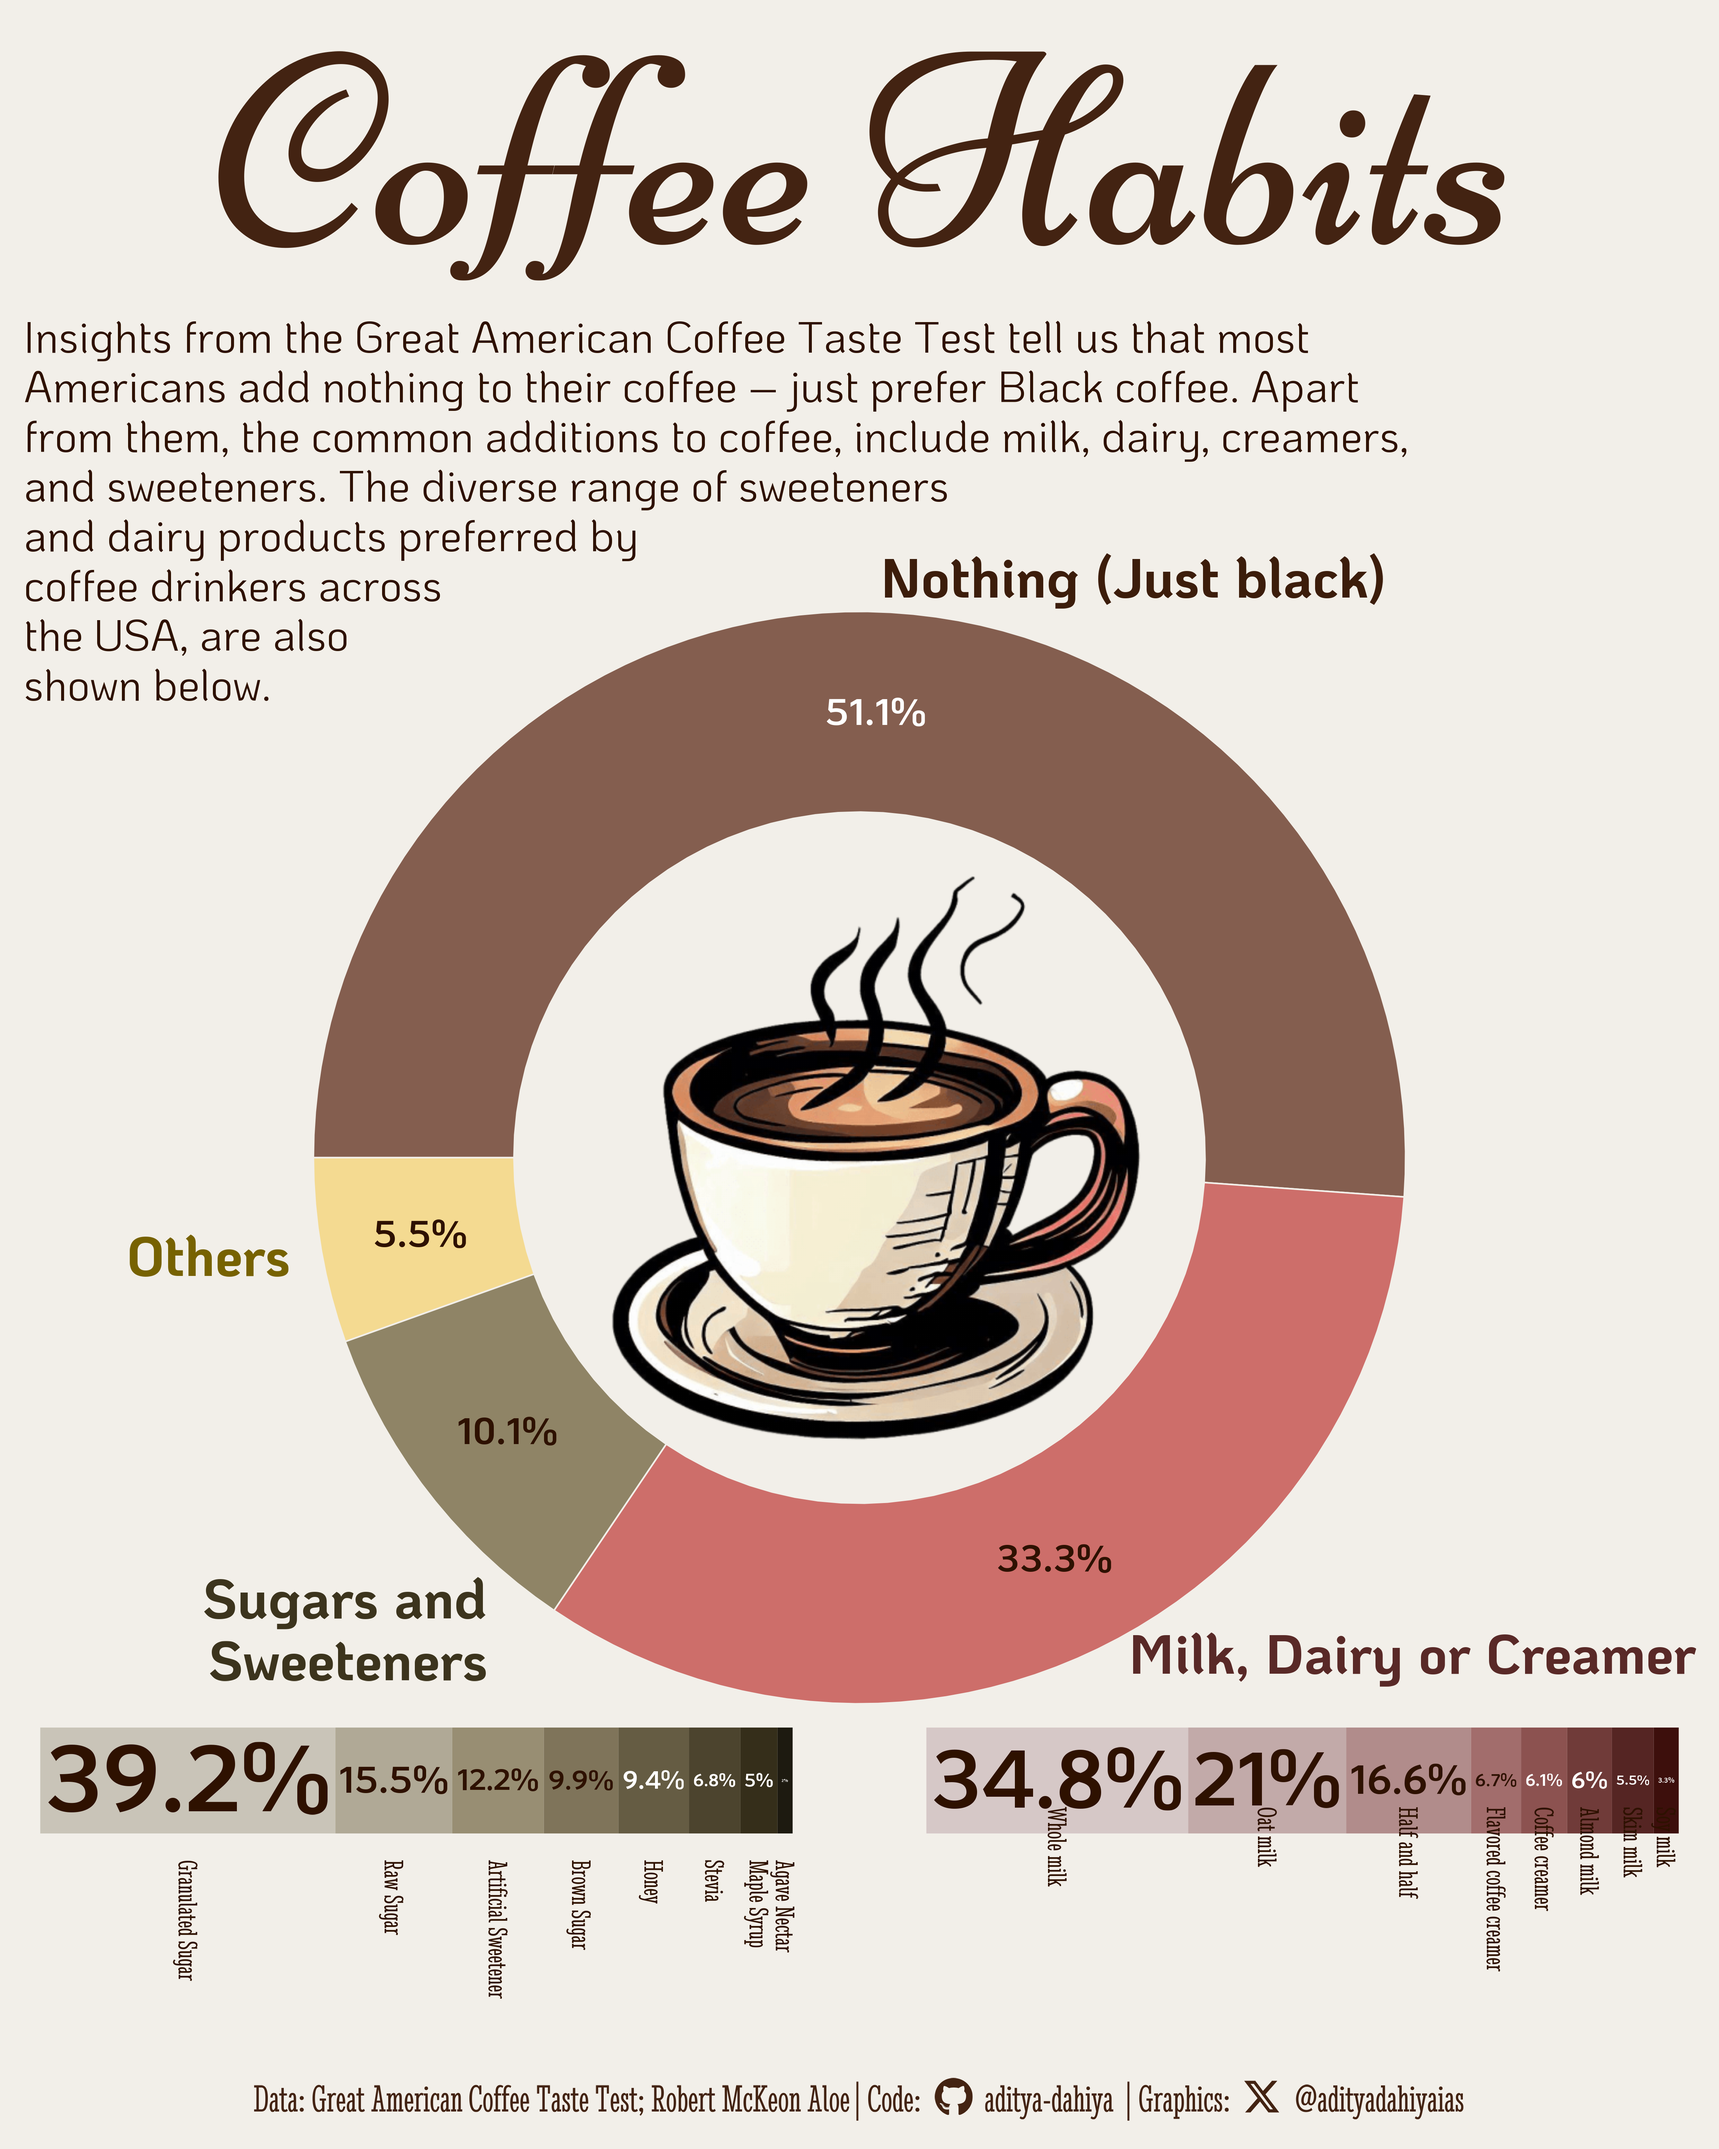
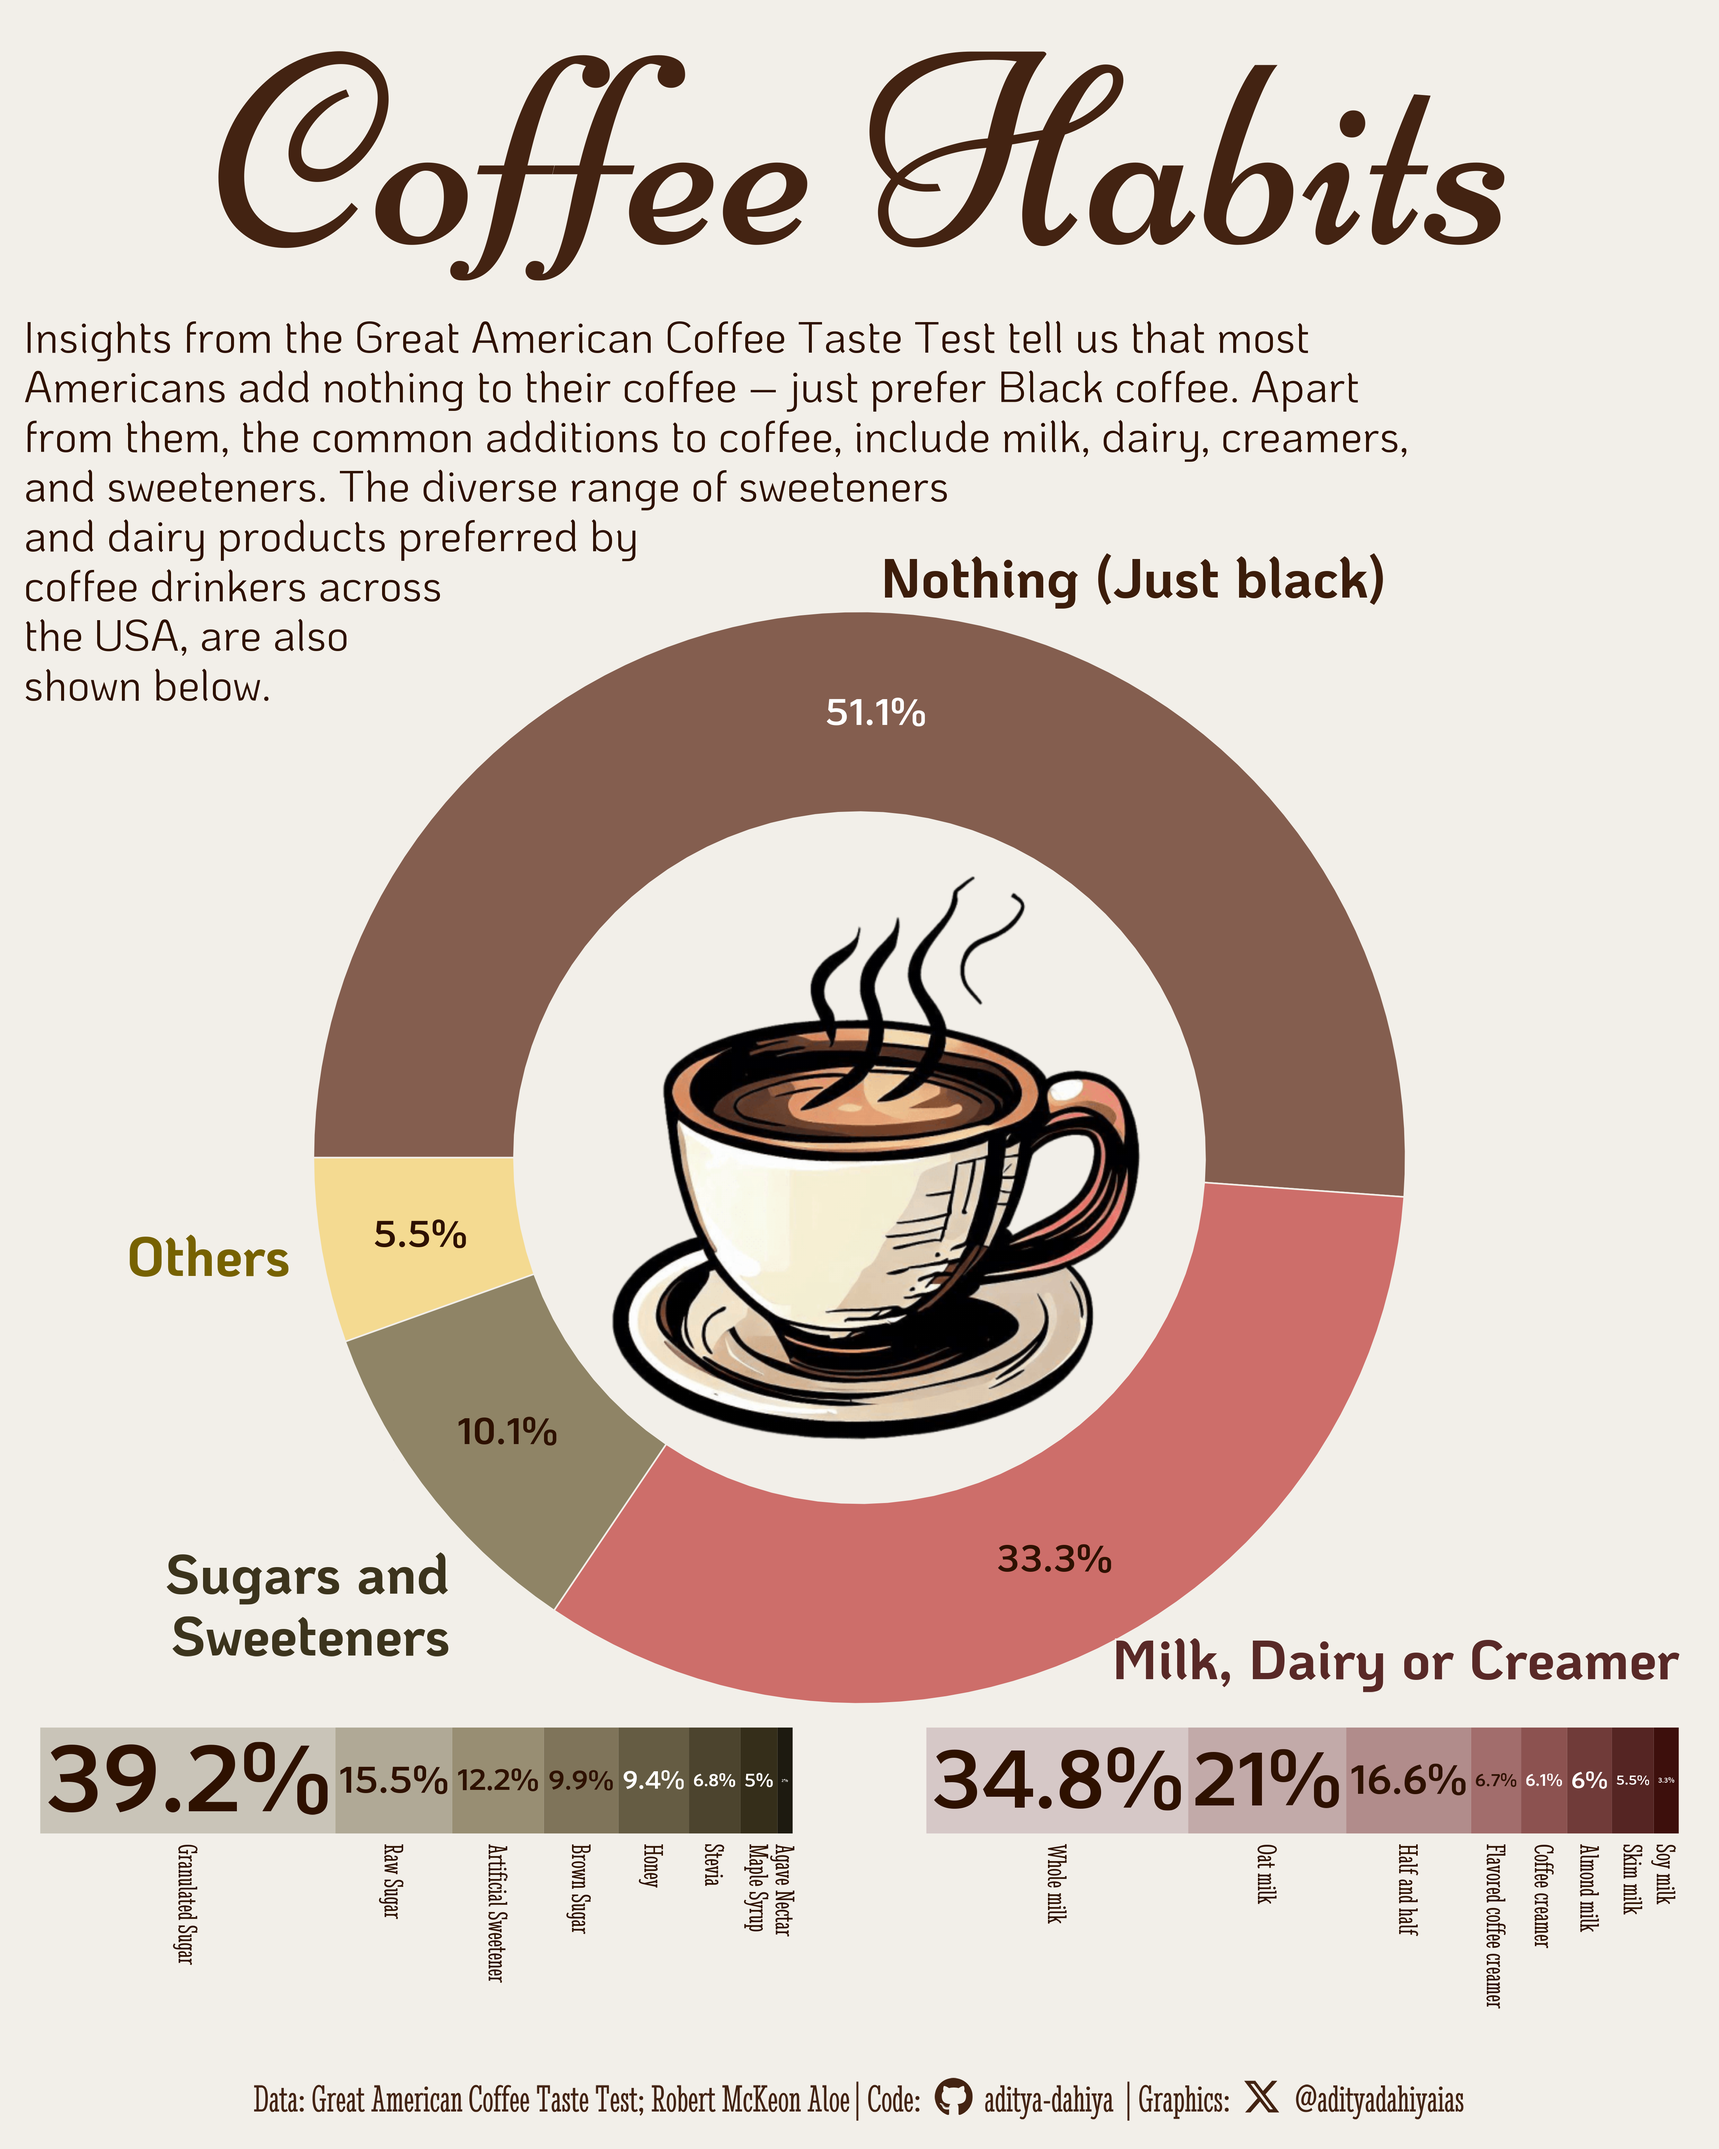
Update minor Coffee Habits Image

diff --git a/docs/data_vizs/tidy_coffee_test.html b/docs/data_vizs/tidy_coffee_test.html
@@ -198,6 +198,7 @@ pre > code.sourceCode > span > a:first-child::before { text-decoration: underlin
 <p class="subtitle lead">Preferred additions to Coffee in the survey of American coffee drinkers</p>
   <div class="quarto-categories">
     <div class="quarto-category">#TidyTuesday</div>
+    <div class="quarto-category">Donut Chart</div>
   </div>
   </div>
 
@@ -229,8 +230,13 @@ pre > code.sourceCode > span > a:first-child::before { text-decoration: underlin
 
 <section id="the-great-american-coffee-taste-test" class="level1">
 <h1>The Great American Coffee Taste Test</h1>
-<p>In October 2023, <a href="https://www.youtube.com/watch?v=bMOOQfeloH0">James Hoffmann</a>, along with coffee comp<img src="tidy_coffee_test.png" class="img-fluid" width="900" alt="Insights from the Great American Coffee Taste Test tell is that most Americans add nothing to their coffee – just prefer Black coffee. Apart from them, the common additions to coffee, include milk, dairy, creamers, and sweeteners. The diverse range of sweeteners and dairy products preferred by coffee drinkers across the USA, are also shown.">any Cometeer, conducted the “<a href="https://cometeer.com/pages/the-great-american-coffee-taste-test">Great American Coffee Taste Test</a>” via a livestream on <a href="https://www.youtube.com/watch?v=bMOOQfeloH0">YouTube</a>, engaging approximately 4,000 participants across the USA. During the event, participants received four coffee samples from Cometeer without labels, brewing and tasting them while recording their notes and preferences. The survey data from this event was later <a href="https://rmckeon.medium.com/great-american-coffee-taste-test-breakdown-7f3fdcc3c41d">analyzed</a> by data blogger <a href="https://rmckeon.medium.com/">Robert McKeon Aloe</a>, who delved into the rich demographics and coffee-related questions provided by the participants.</p>
-<p>However, it’s important to note that this data is voluntary and doesn’t encompass all participants’ responses due to incomplete surveys. Additionally, the dataset represents a sample of James Hoffmann’s fanbase, limiting its generalizability.</p>
+<p>In October 2023, <a href="https://www.youtube.com/watch?v=bMOOQfeloH0">James Hoffmann</a>, along with coffee company Cometeer, conducted the “<a href="https://cometeer.com/pages/the-great-american-coffee-taste-test">Great American Coffee Taste Test</a>” via a livestream on <a href="https://www.youtube.com/watch?v=bMOOQfeloH0">YouTube</a>, engaging approximately 4,000 participants across the USA. During the event, participants received four coffee samples from Cometeer without labels, brewing and tasting them while recording their notes and preferences. The survey data from this event was later <a href="https://rmckeon.medium.com/great-american-coffee-taste-test-breakdown-7f3fdcc3c41d">analyzed</a> by data blogger <a href="https://rmckeon.medium.com/">Robert McKeon Aloe</a>, who delved into the rich demographics and coffee-related questions provided by the participants. However, it’s important to note that this data is voluntary and doesn’t encompass all participants’ responses due to incomplete surveys. Additionally, the dataset represents a sample of James Hoffmann’s fanbase, limiting its generalizability.</p>
+<div class="quarto-figure quarto-figure-center">
+<figure class="figure">
+<p><a href="https://raw.githubusercontent.com/Aditya-Dahiya/projects_presentations/main/data_vizs/tidy_coffee_test.png"><img src="tidy_coffee_test.png" class="img-fluid figure-img" width="900" alt="Insights from the Great American Coffee Taste Test tell is that most Americans add nothing to their coffee – just prefer Black coffee. Apart from them, the common additions to coffee, include milk, dairy, creamers, and sweeteners. The diverse range of sweeteners and dairy products preferred by coffee drinkers across the USA, are also shown."></a></p>
+<figcaption>Insights from the Great American Coffee Taste Test tell is that most Americans add nothing to their coffee – just prefer Black coffee. Apart from them, the common additions to coffee, include milk, dairy, creamers, and sweeteners. The diverse range of sweeteners and dairy products preferred by coffee drinkers across the USA, are also shown.</figcaption>
+</figure>
+</div>
 <section id="how-i-made-this-graphic" class="level3">
 <h3 class="anchored" data-anchor-id="how-i-made-this-graphic"><strong>How I made this graphic?</strong></h3>
 <p>Loading required libraries, data import &amp; creating custom functions</p>
@@ -568,7 +574,7 @@ pre > code.sourceCode > span > a:first-child::before { text-decoration: underlin
 <span id="cb7-30"><a href="#cb7-30" aria-hidden="true" tabindex="-1"></a>  <span class="fu">geom_text</span>(</span>
 <span id="cb7-31"><a href="#cb7-31" aria-hidden="true" tabindex="-1"></a>    <span class="fu">aes</span>(</span>
 <span id="cb7-32"><a href="#cb7-32" aria-hidden="true" tabindex="-1"></a>      <span class="at">label =</span> dairy,</span>
-<span id="cb7-33"><a href="#cb7-33" aria-hidden="true" tabindex="-1"></a>      <span class="at">x =</span> <span class="fl">0.95</span></span>
+<span id="cb7-33"><a href="#cb7-33" aria-hidden="true" tabindex="-1"></a>      <span class="at">x =</span> <span class="fl">0.88</span></span>
 <span id="cb7-34"><a href="#cb7-34" aria-hidden="true" tabindex="-1"></a>      ),</span>
 <span id="cb7-35"><a href="#cb7-35" aria-hidden="true" tabindex="-1"></a>    <span class="at">position =</span> <span class="fu">position_stack</span>(<span class="at">vjust =</span> <span class="fl">0.5</span>),</span>
 <span id="cb7-36"><a href="#cb7-36" aria-hidden="true" tabindex="-1"></a>    <span class="at">hjust =</span> <span class="dv">0</span>,</span>
@@ -628,7 +634,7 @@ pre > code.sourceCode > span > a:first-child::before { text-decoration: underlin
 <span id="cb7-90"><a href="#cb7-90" aria-hidden="true" tabindex="-1"></a>  <span class="fu">geom_text</span>(</span>
 <span id="cb7-91"><a href="#cb7-91" aria-hidden="true" tabindex="-1"></a>    <span class="fu">aes</span>(</span>
 <span id="cb7-92"><a href="#cb7-92" aria-hidden="true" tabindex="-1"></a>      <span class="at">label =</span> sweetener,</span>
-<span id="cb7-93"><a href="#cb7-93" aria-hidden="true" tabindex="-1"></a>      <span class="at">x =</span> <span class="fl">0.85</span></span>
+<span id="cb7-93"><a href="#cb7-93" aria-hidden="true" tabindex="-1"></a>      <span class="at">x =</span> <span class="fl">0.88</span></span>
 <span id="cb7-94"><a href="#cb7-94" aria-hidden="true" tabindex="-1"></a>      ),</span>
 <span id="cb7-95"><a href="#cb7-95" aria-hidden="true" tabindex="-1"></a>    <span class="at">position =</span> <span class="fu">position_stack</span>(<span class="at">vjust =</span> <span class="fl">0.5</span>),</span>
 <span id="cb7-96"><a href="#cb7-96" aria-hidden="true" tabindex="-1"></a>    <span class="at">hjust =</span> <span class="dv">0</span>,</span>

diff --git a/docs/data_vizs.html b/docs/data_vizs.html
@@ -202,7 +202,7 @@ window.Quarto = {
 <!-- margin-sidebar -->
     <div id="quarto-margin-sidebar" class="sidebar margin-sidebar">
         
-    <h5 class="quarto-listing-category-title">Categories</h5><div class="quarto-listing-category category-default"><div class="category" data-category="">All <span class="quarto-category-count">(7)</span></div><div class="category" data-category="#TidyTuesday">#TidyTuesday <span class="quarto-category-count">(4)</span></div><div class="category" data-category="A4 Size Viz">A4 Size Viz <span class="quarto-category-count">(6)</span></div><div class="category" data-category="Aviation">Aviation <span class="quarto-category-count">(1)</span></div><div class="category" data-category="Data Is Plural">Data Is Plural <span class="quarto-category-count">(3)</span></div><div class="category" data-category="Geocomputation">Geocomputation <span class="quarto-category-count">(1)</span></div><div class="category" data-category="Geopolitics">Geopolitics <span class="quarto-category-count">(1)</span></div><div class="category" data-category="Governance">Governance <span class="quarto-category-count">(2)</span></div><div class="category" data-category="Health Financing">Health Financing <span class="quarto-category-count">(2)</span></div><div class="category" data-category="India">India <span class="quarto-category-count">(1)</span></div><div class="category" data-category="Maps">Maps <span class="quarto-category-count">(3)</span></div><div class="category" data-category="Music">Music <span class="quarto-category-count">(1)</span></div><div class="category" data-category="Public Health">Public Health <span class="quarto-category-count">(2)</span></div><div class="category" data-category="Sciences">Sciences <span class="quarto-category-count">(1)</span></div><div class="category" data-category="USA">USA <span class="quarto-category-count">(1)</span></div><div class="category" data-category="ggimage">ggimage <span class="quarto-category-count">(1)</span></div></div></div>
+    <h5 class="quarto-listing-category-title">Categories</h5><div class="quarto-listing-category category-default"><div class="category" data-category="">All <span class="quarto-category-count">(7)</span></div><div class="category" data-category="#TidyTuesday">#TidyTuesday <span class="quarto-category-count">(4)</span></div><div class="category" data-category="A4 Size Viz">A4 Size Viz <span class="quarto-category-count">(6)</span></div><div class="category" data-category="Aviation">Aviation <span class="quarto-category-count">(1)</span></div><div class="category" data-category="Data Is Plural">Data Is Plural <span class="quarto-category-count">(3)</span></div><div class="category" data-category="Donut Chart">Donut Chart <span class="quarto-category-count">(1)</span></div><div class="category" data-category="Geocomputation">Geocomputation <span class="quarto-category-count">(1)</span></div><div class="category" data-category="Geopolitics">Geopolitics <span class="quarto-category-count">(1)</span></div><div class="category" data-category="Governance">Governance <span class="quarto-category-count">(2)</span></div><div class="category" data-category="Health Financing">Health Financing <span class="quarto-category-count">(2)</span></div><div class="category" data-category="India">India <span class="quarto-category-count">(1)</span></div><div class="category" data-category="Maps">Maps <span class="quarto-category-count">(3)</span></div><div class="category" data-category="Music">Music <span class="quarto-category-count">(1)</span></div><div class="category" data-category="Public Health">Public Health <span class="quarto-category-count">(2)</span></div><div class="category" data-category="Sciences">Sciences <span class="quarto-category-count">(1)</span></div><div class="category" data-category="USA">USA <span class="quarto-category-count">(1)</span></div><div class="category" data-category="ggimage">ggimage <span class="quarto-category-count">(1)</span></div></div></div>
 <!-- main -->
 <main class="content" id="quarto-document-content">
 
@@ -251,7 +251,7 @@ window.Quarto = {
   </div>
 </div>
 <div class="list grid quarto-listing-cols-4">
-<div class="g-col-1" data-index="0" data-categories="#TidyTuesday" data-listing-date-sort="1715744211000" data-listing-file-modified-sort="1715744211933" data-listing-date-modified-sort="NaN" data-listing-reading-time-sort="15" data-listing-word-count-sort="2891">
+<div class="g-col-1" data-index="0" data-categories="#TidyTuesday,Donut Chart" data-listing-date-sort="1715744608000" data-listing-file-modified-sort="1715744608683" data-listing-date-modified-sort="NaN" data-listing-reading-time-sort="15" data-listing-word-count-sort="2892">
 <a href="./data_vizs/tidy_coffee_test.html" class="quarto-grid-link">
 <div class="quarto-grid-item card h-100 card-left borderless">
 <p class="card-img-top">
